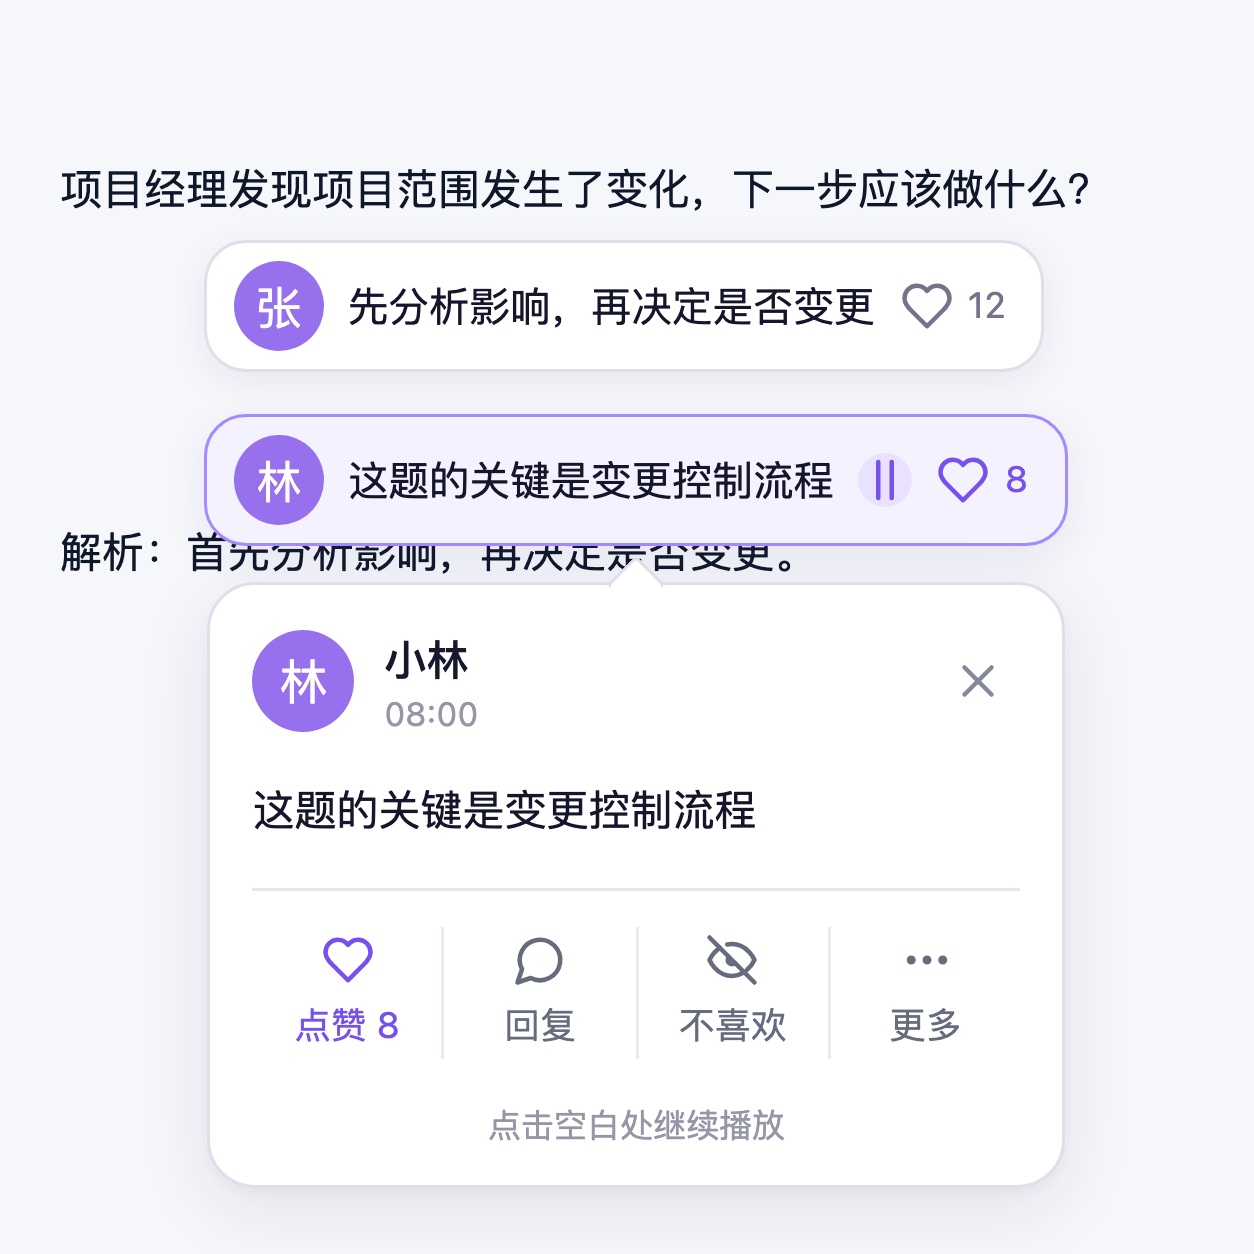
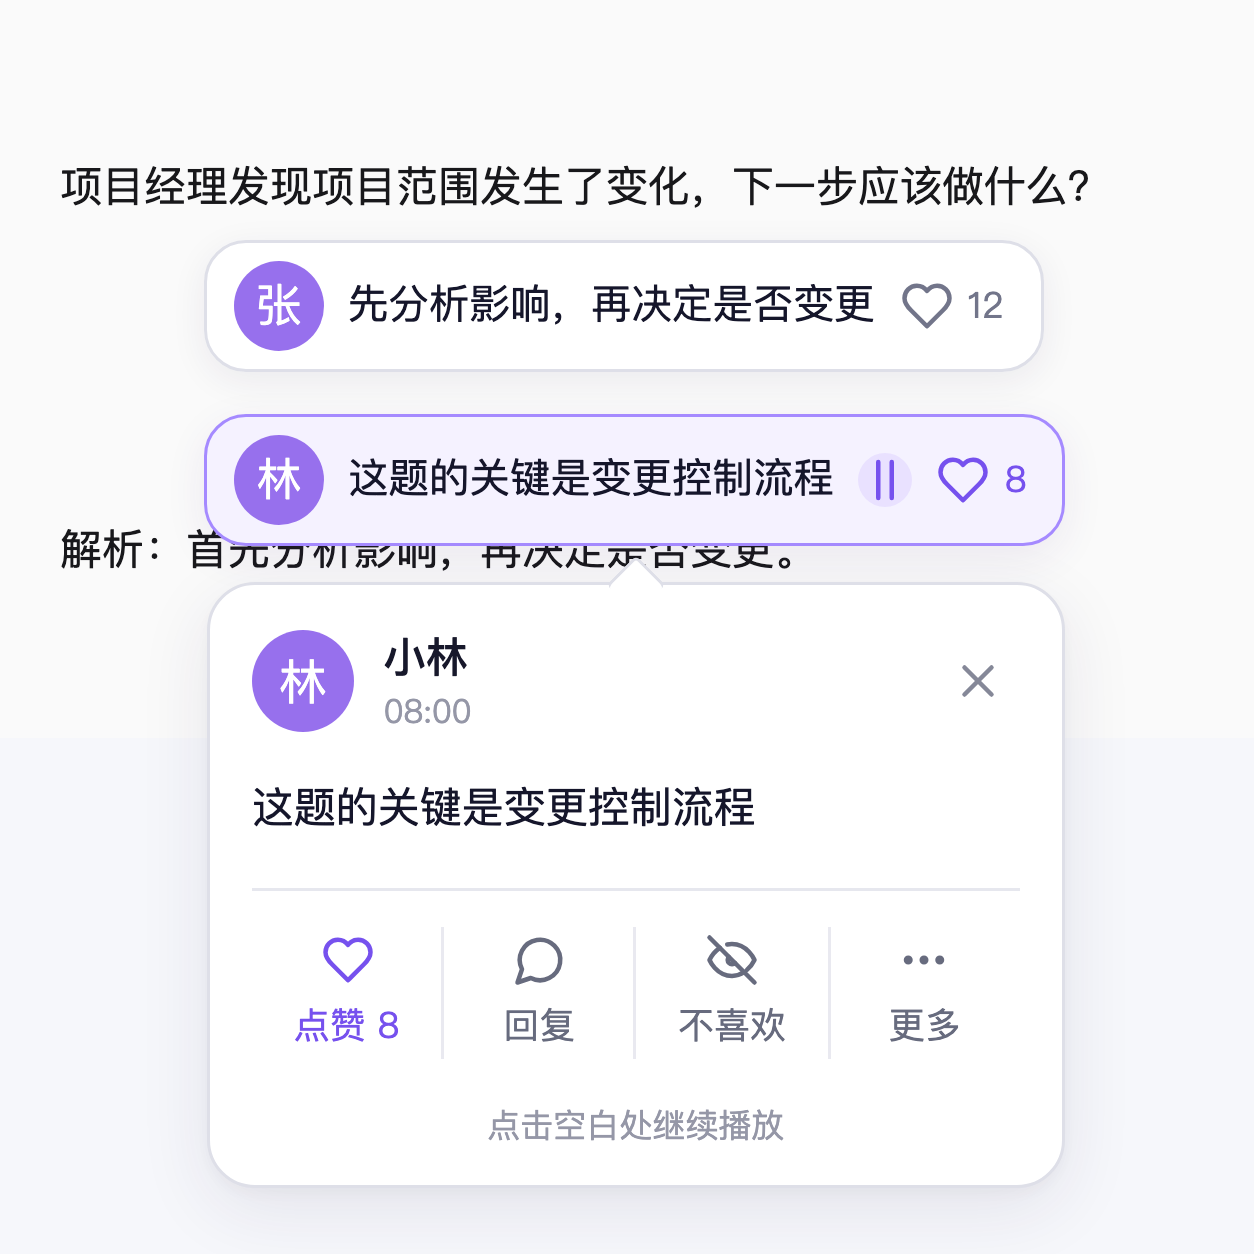
fix: preserve danmaku geometry under actual practice skin

diff --git a/new-legacy/styles/question-comments.css b/new-legacy/styles/question-comments.css
@@ -25,7 +25,7 @@
 /* 弹幕是视口层，只有条和互动浮层接收指针，空白处仍可操作题目。 */
 .q-danmaku { position:fixed; inset:72px 0 145px; z-index:180; pointer-events:none; }
 .q-danmaku-track { position:relative; height:100%; pointer-events:none; }
-.q-danmaku .q-danmaku-item {
+.q-danmaku:not(#authModal) .q-danmaku-track .q-danmaku-item {
   box-sizing:border-box; position:absolute; left:100%; top:calc(12% + var(--q-danmaku-lane,0) * 17%);
   display:inline-flex; align-items:center; gap:8px; height:44px; max-width:calc(100vw - 24px);
   margin:0; padding:6px 12px 6px 9px; border:1px solid #dedfe8; border-radius:14px;
@@ -35,14 +35,14 @@
   animation:q-danmaku-scroll 18s linear infinite; animation-delay:var(--q-danmaku-delay,0s); will-change:transform;
   outline:none; text-align:left; text-transform:none; letter-spacing:normal;
 }
-.q-danmaku .q-danmaku-item:is(:hover,:focus-visible,.is-paused) {
+.q-danmaku:not(#authModal) .q-danmaku-track .q-danmaku-item:is(:hover,:focus-visible,.is-paused) {
   animation-play-state:paused; background:#f5f2ff; border-color:#a58aff; box-shadow:0 4px 14px rgb(73 43 131 / .08);
 }
-.q-danmaku .q-danmaku-item:focus-visible { outline:2px solid #a58aff; outline-offset:2px; }
+.q-danmaku:not(#authModal) .q-danmaku-track .q-danmaku-item:focus-visible { outline:2px solid #a58aff; outline-offset:2px; }
 .q-danmaku .q-danmaku-content { min-width:0; overflow:hidden; text-overflow:ellipsis; }
 .q-danmaku .q-comment-avatar { width:30px; height:30px; background:#9770ed; color:#fff; font-size:15px; font-weight:400; }
 .q-danmaku .q-danmaku-pause { display:none; flex-shrink:0; width:18px; height:18px; align-items:center; justify-content:center; border-radius:50%; padding:0; background:#e9e1ff; color:#7651ee; }
-.q-danmaku .q-danmaku-item:is(:hover,:focus-visible,.is-paused) .q-danmaku-pause { display:inline-flex; }
+.q-danmaku:not(#authModal) .q-danmaku-track .q-danmaku-item:is(:hover,:focus-visible,.is-paused) .q-danmaku-pause { display:inline-flex; }
 .q-danmaku .q-danmaku-like { display:inline-flex; align-items:center; flex-shrink:0; gap:5px; color:#72758a; font-size:12px; line-height:1; white-space:nowrap; }
 .q-danmaku .q-danmaku-like.is-liked { color:#7651ee; }
 .q-danmaku .kg-icon { display:block; flex-shrink:0; }
@@ -53,7 +53,7 @@
 @media(prefers-reduced-motion:reduce) {
   .q-danmaku { max-height:25vh; inset:80px 12px auto; overflow:auto; }
   .q-danmaku-track { display:flex; flex-wrap:wrap; gap:8px; }
-  .q-danmaku .q-danmaku-item { animation:none; position:static; transform:none; flex-shrink:0; }
+  .q-danmaku:not(#authModal) .q-danmaku-track .q-danmaku-item { animation:none; position:static; transform:none; flex-shrink:0; }
 }
 
 /* 留言列表 */
@@ -235,36 +235,37 @@
 /* 标记区「评论」按钮直开时的不可见宿主：只承载折叠条 DOM，不展示。 */
 .q-comments-standalone-host { display:none; }
 
-/* 弹幕互动：组件尺寸按批准稿约 3× 导出换算，按钮保留 44px 点击区。 */
-.q-danmaku .q-danmaku-pop {
+/* 弹幕互动：组件尺寸按批准稿约 3× 导出换算，按钮保留 44px 点击区。
+ * 学习皮肤的 :not(#authModal *) 带 ID 优先级；组件用同等的认证排除范围和更具体子层级保护自己的按钮。 */
+.q-danmaku:not(#authModal) .q-danmaku-pop {
   box-sizing:border-box; position:fixed; z-index:250; width:286px; max-width:calc(100vw - 16px); max-height:calc(100vh - 16px);
   overflow:auto; padding:14px 14px 12px; background:#fff; color:#15162b; border:1px solid #dedfe8; border-radius:16px;
   box-shadow:0 7px 24px rgb(39 35 75 / .09),0 2px 6px rgb(39 35 75 / .04); pointer-events:auto;
   font-family:inherit; font-size:14px; font-weight:400; line-height:1.5;
 }
-.q-danmaku .q-danmaku-pop::before {
+.q-danmaku:not(#authModal) .q-danmaku-pop::before {
   content:''; position:fixed; top:var(--q-pop-arrow-y); left:var(--q-pop-arrow-x); width:13px; height:13px;
   transform:translate(-50%,-50%) rotate(45deg); background:#fff; border-left:1px solid #dedfe8; border-top:1px solid #dedfe8; border-radius:2px;
 }
-.q-danmaku .q-danmaku-pop[data-placement="top"]::before { transform:translate(-50%,-50%) rotate(225deg); }
-.q-danmaku .q-danmaku-pop-head { display:flex; align-items:center; gap:10px; min-height:34px; }
-.q-danmaku .q-danmaku-pop-head .q-comment-avatar { width:34px; height:34px; font-size:16px; }
-.q-danmaku .q-danmaku-pop-meta { display:flex; flex:1; min-width:0; flex-direction:column; gap:0; }
-.q-danmaku .q-danmaku-pop-author { overflow:hidden; text-overflow:ellipsis; white-space:nowrap; color:#17182b; font-weight:500; font-size:14px; }
-.q-danmaku .q-danmaku-pop-meta time { color:#9597a7; font-size:11px; line-height:1.4; }
-.q-danmaku .q-danmaku-pop button { box-sizing:border-box; font-family:inherit; font-weight:400; text-transform:none; letter-spacing:normal; cursor:pointer; box-shadow:none; outline:none; }
-.q-danmaku .q-danmaku-pop .q-danmaku-pop-close { display:grid; place-items:center; flex-shrink:0; width:44px; height:44px; min-width:44px; margin:-5px -8px -5px 0; padding:0; border:0; border-radius:10px; background:transparent; color:#858898; }
-.q-danmaku .q-danmaku-pop-text { display:block; margin:14px 0 16px; color:#15162b; font-size:14px; line-height:1.5; overflow-wrap:anywhere; white-space:pre-wrap; }
-.q-danmaku .q-danmaku-pop-actions { display:flex; align-items:stretch; gap:0; border-top:1px solid #e6e7ee; padding-top:12px; }
-.q-danmaku .q-danmaku-pop-actions button { display:flex; flex:1; min-width:44px; min-height:44px; flex-direction:column; align-items:center; justify-content:center; gap:4px; margin:0; padding:0 2px; border:0; border-radius:0; background:transparent; color:#676b7e; font-size:12px; line-height:1.5; }
-.q-danmaku .q-danmaku-pop-actions button+button { border-left:1px solid #e9e9f0; }
-.q-danmaku .q-danmaku-pop-actions button.is-liked { color:#7651ee; }
-.q-danmaku .q-danmaku-pop button:is(:hover,:focus-visible) { background:#f5f2ff; color:#7651ee; }
-.q-danmaku .q-danmaku-pop button:focus-visible { outline:2px solid #a58aff; outline-offset:-2px; border-radius:8px; }
-.q-danmaku .q-danmaku-pop-extra { display:flex; gap:8px; margin-top:12px; padding-top:10px; border-top:1px solid #e6e7ee; }
-.q-danmaku .q-danmaku-pop-extra[hidden] { display:none; }
-.q-danmaku .q-danmaku-pop-extra button { flex:1; min-height:44px; padding:6px 8px; border:0; border-radius:9px; background:#f6f5fa; color:#676b7e; font-size:12px; }
-.q-danmaku .q-danmaku-pop-hint { margin:14px 0 0; color:#9597a7; text-align:center; font-size:11px; line-height:16px; }
+.q-danmaku:not(#authModal) .q-danmaku-pop[data-placement="top"]::before { transform:translate(-50%,-50%) rotate(225deg); }
+.q-danmaku:not(#authModal) .q-danmaku-pop-head { display:flex; align-items:center; gap:10px; min-height:34px; }
+.q-danmaku:not(#authModal) .q-danmaku-pop-head .q-comment-avatar { width:34px; height:34px; font-size:16px; }
+.q-danmaku:not(#authModal) .q-danmaku-pop-meta { display:flex; flex:1; min-width:0; flex-direction:column; gap:0; }
+.q-danmaku:not(#authModal) .q-danmaku-pop-author { overflow:hidden; text-overflow:ellipsis; white-space:nowrap; color:#17182b; font-weight:500; font-size:14px; }
+.q-danmaku:not(#authModal) .q-danmaku-pop-meta time { color:#9597a7; font-size:11px; line-height:1.4; }
+.q-danmaku:not(#authModal) .q-danmaku-pop button { box-sizing:border-box; font-family:inherit; font-weight:400; text-transform:none; letter-spacing:normal; cursor:pointer; box-shadow:none; transform:none; outline:none; }
+.q-danmaku:not(#authModal) .q-danmaku-pop .q-danmaku-pop-close { display:grid; place-items:center; flex-shrink:0; width:44px; height:44px; min-width:44px; margin:-5px -8px -5px 0; padding:0; border:0; border-radius:10px; background:transparent; color:#858898; }
+.q-danmaku:not(#authModal) .q-danmaku-pop-text { display:block; margin:14px 0 16px; color:#15162b; font-size:14px; line-height:1.5; overflow-wrap:anywhere; white-space:pre-wrap; }
+.q-danmaku:not(#authModal) .q-danmaku-pop .q-danmaku-pop-actions { display:flex; align-items:stretch; gap:0; border-top:1px solid #e6e7ee; padding-top:12px; }
+.q-danmaku:not(#authModal) .q-danmaku-pop .q-danmaku-pop-actions button { display:flex; flex:1; min-width:44px; min-height:44px; flex-direction:column; align-items:center; justify-content:center; gap:4px; margin:0; padding:0 2px; border:0; border-radius:0; background:transparent; color:#676b7e; font-size:12px; line-height:1.5; }
+.q-danmaku:not(#authModal) .q-danmaku-pop .q-danmaku-pop-actions button+button { border-left:1px solid #e9e9f0; }
+.q-danmaku:not(#authModal) .q-danmaku-pop .q-danmaku-pop-actions button.is-liked { color:#7651ee; }
+.q-danmaku:not(#authModal) .q-danmaku-pop button:is(:hover,:focus-visible) { background:#f5f2ff; color:#7651ee; }
+.q-danmaku:not(#authModal) .q-danmaku-pop button:focus-visible { outline:2px solid #a58aff; outline-offset:-2px; }
+.q-danmaku:not(#authModal) .q-danmaku-pop .q-danmaku-pop-extra { display:flex; gap:8px; margin-top:12px; padding-top:10px; border-top:1px solid #e6e7ee; }
+.q-danmaku:not(#authModal) .q-danmaku-pop .q-danmaku-pop-extra[hidden] { display:none; }
+.q-danmaku:not(#authModal) .q-danmaku-pop .q-danmaku-pop-extra button { flex:1; min-height:44px; padding:6px 8px; border:0; border-radius:9px; background:#f6f5fa; color:#676b7e; font-size:12px; }
+.q-danmaku:not(#authModal) .q-danmaku-pop-hint { margin:14px 0 0; color:#9597a7; text-align:center; font-size:11px; line-height:16px; }
 .q-comment-actions button,.q-comments.is-collapsed>button { border:1px solid var(--learn-border, #e4e4e7); border-radius:8px; background:var(--learn-card, #fff); color:var(--learn-secondary-foreground, #3f3f46); padding:5px 8px; }
 .q-comment-actions [aria-pressed=true] { background:var(--learn-accent, #f1efff); color:var(--learn-accent-foreground, #4c3fd1); }
 .q-comment-parent { display:block; color:var(--learn-muted-foreground, #71717a); margin-top:6px; }

diff --git a/new-legacy/tests/danmaku-design-browser.py b/new-legacy/tests/danmaku-design-browser.py
@@ -48,8 +48,9 @@ class DanmakuDesign(unittest.TestCase):
         self.fail_like = False
         self.fail_favorite = False
         self.page.route('http://localhost/**', self.route)
-        # Same real CSS order as the question page, including global button styles.
-        html = (ROOT / 'knowledge-recall.html').read_text()
+        # Exact production practice CSS order and body attributes, including ID-specific global skin rules.
+        html = (ROOT / 'practice-mode.html').read_text()
+        self.body_attrs = re.search(r'<body([^>]*)>', html).group(1)
         self.css = re.findall(r'<link[^>]+href="([^"]+\.css)"', html)
         self.page.goto('http://localhost/test-harness')
         self.page.evaluate("window.KGAuthCore={currentUser:()=>({username:'stu',role:'student'})}; window.copied=''; Object.defineProperty(navigator,'clipboard',{value:{writeText:async value=>{window.copied=value}}})")
@@ -67,7 +68,7 @@ class DanmakuDesign(unittest.TestCase):
         url = route.request.url.removeprefix('http://localhost/')
         if url == 'test-harness':
             links = ''.join('<link rel="stylesheet" href="/'+p+'">' for p in self.css)
-            route.fulfill(content_type='text/html', body='<!doctype html><html><head><meta charset="utf-8">'+links+'<link rel="stylesheet" href="/styles/question-comments.css"></head><body><main style="padding:40px"><h1>项目经理发现项目范围发生了变化，下一步应该做什么？</h1><p>解析：首先分析影响，再决定是否变更。</p></main></body></html>')
+            route.fulfill(content_type='text/html', body='<!doctype html><html><head><meta charset="utf-8">'+links+'</head><body'+self.body_attrs+'><main style="padding:40px"><h1>项目经理发现项目范围发生了变化，下一步应该做什么？</h1><p>解析：首先分析影响，再决定是否变更。</p></main></body></html>')
         elif url.startswith('api/v1/'):
             method = route.request.method
             if url.endswith('/like'):
@@ -144,6 +145,25 @@ class DanmakuDesign(unittest.TestCase):
         self.open()
         self.page.mouse.click(20, 20)
         self.assertEqual(self.page.locator('[data-danmaku-pop],.q-danmaku-item.is-paused').count(), 0)
+
+    def test_practice_skin_keeps_flat_action_cells_in_normal_and_hover_states(self):
+        self.page.set_viewport_size({'width':390, 'height':844})
+        self.place(40,160)
+        pop = self.open()
+        for index, button in enumerate(pop.locator('.q-danmaku-pop-actions button').all()):
+            for hovered in [False, True]:
+                self.page.mouse.move(0,0)
+                if hovered:
+                    button.hover()
+                style = button.evaluate("e=>{const s=getComputedStyle(e);return {radius:s.borderRadius,top:s.borderTopWidth,right:s.borderRightWidth,bottom:s.borderBottomWidth,left:s.borderLeftWidth,shadow:s.boxShadow,transform:s.transform}}")
+                self.assertEqual(style, dict(radius='0px',top='0px',right='0px',bottom='0px',left='0px' if index==0 else '1px',shadow='none',transform='none'), f'flat action cell {index}, hover={hovered}')
+        close = pop.locator('[data-qc-pop-action="close"]')
+        close.hover()
+        self.assertEqual(close.evaluate('e=>getComputedStyle(e).boxShadow'), 'none')
+        self.assertEqual(close.evaluate('e=>getComputedStyle(e).transform'), 'none')
+        self.assertEqual(self.page.locator('[data-danmaku-comment-id="c1"]').evaluate('e=>getComputedStyle(e).borderRadius'), '14px')
+        self.page.locator('[data-qc-pop-action="more"]').click()
+        self.page.screenshot(path=str(ARTIFACTS/'practice-skin-mobile-more.png'))
 
     def test_top_bottom_more_and_resize_clamp(self):
         for x,y in [(8,8),(1080,800)]:
